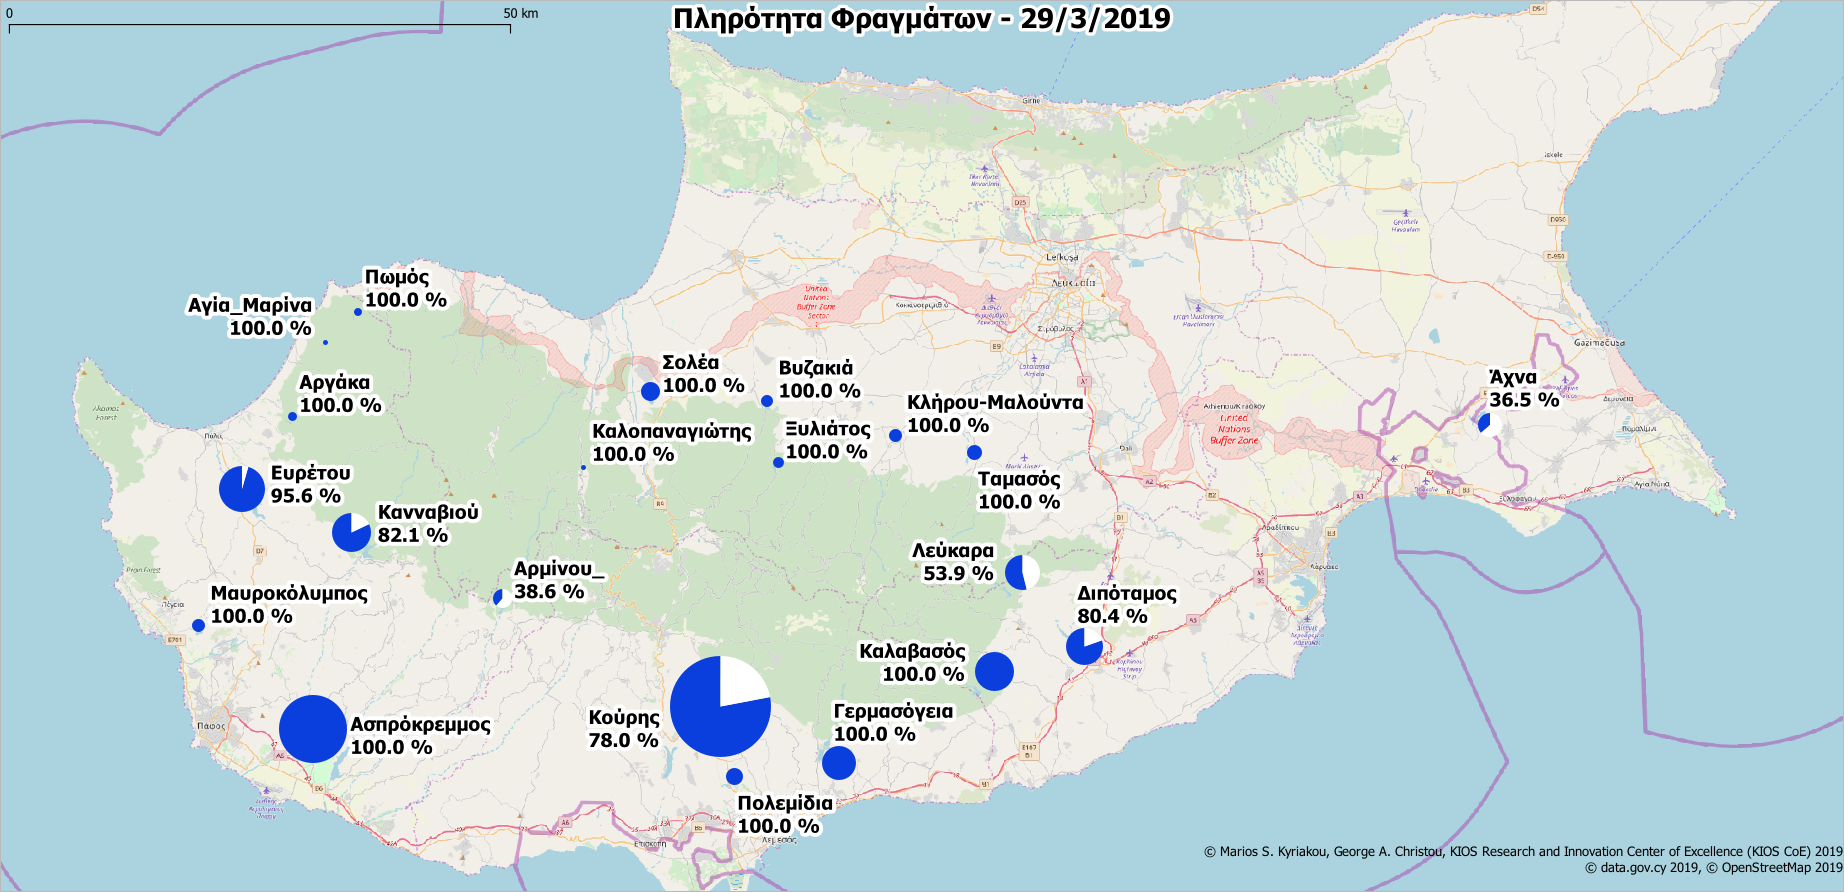
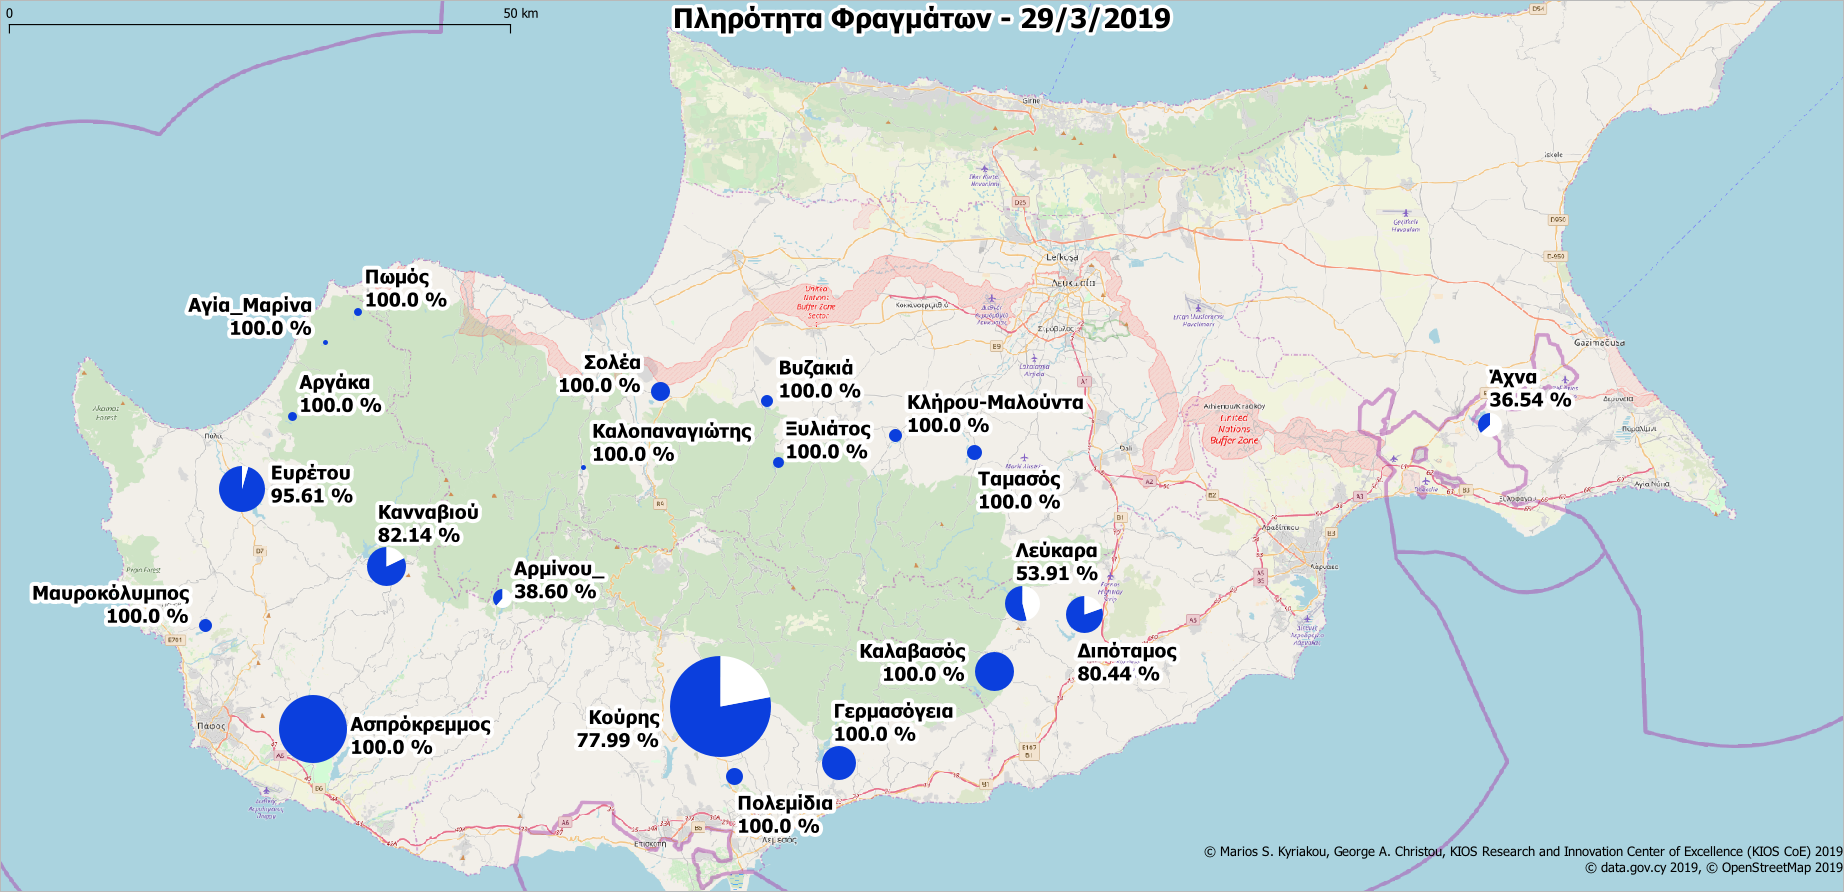
update

diff --git a/dams.html b/dams.html
@@ -15,7 +15,7 @@
 <th width="60"><b>Capacity (MCM)</b></th>
 <th width="60"><b>CurrentStorage (MCM)</b></th>
 <th width="60"><b>CurrentStorage (%)</b></th>
-</tr><tr><td>1</td><td>29/3/2019</td><td>Κούρης</td><td>115.0</td><td>89.684</td><td>78.00</td></tr><tr><tr><td>2</td><td>29/3/2019</td><td>Ασπρόκρεμμος</td><td>52.375</td><td>52.375</td><td>100.00</td></tr><tr><tr><td>3</td><td>29/3/2019</td><td>Ευρέτου</td><td>24.0</td><td>22.947</td><td>95.60</td></tr><tr><tr><td>4</td><td>29/3/2019</td><td>Κανναβιού</td><td>17.168</td><td>14.101</td><td>82.10</td></tr><tr><tr><td>5</td><td>29/3/2019</td><td>Καλαβασός</td><td>17.1</td><td>17.1</td><td>100.00</td></tr><tr><tr><td>6</td><td>29/3/2019</td><td>Διπόταμος</td><td>15.5</td><td>12.468</td><td>80.40</td></tr><tr><tr><td>7</td><td>29/3/2019</td><td>Λεύκαρα</td><td>13.85</td><td>7.466</td><td>53.90</td></tr><tr><tr><td>8</td><td>29/3/2019</td><td>Γερμασόγεια</td><td>13.5</td><td>13.5</td><td>100.00</td></tr><tr><tr><td>9</td><td>29/3/2019</td><td>Άχνα</td><td>6.8</td><td>2.485</td><td>36.50</td></tr><tr><tr><td>10</td><td>28/3/2019</td><td>Σολέα</td><td>4.454</td><td>4.454</td><td>100.00</td></tr><tr><tr><td>11</td><td>29/3/2019</td><td>Αρμίνου_</td><td>4.3</td><td>1.66</td><td>38.60</td></tr><tr><tr><td>12</td><td>29/3/2019</td><td>Πολεμίδια</td><td>3.4</td><td>3.4</td><td>100.00</td></tr><tr><tr><td>13</td><td>28/3/2019</td><td>Ταμασός</td><td>2.8</td><td>2.8</td><td>100.00</td></tr><tr><tr><td>14</td><td>29/3/2019</td><td>Μαυροκόλυμπος</td><td>2.18</td><td>2.18</td><td>100.00</td></tr><tr><tr><td>15</td><td>28/3/2019</td><td>Κλήρου-Μαλούντα</td><td>2.0</td><td>2.0</td><td>100.00</td></tr><tr><tr><td>16</td><td>29/3/2019</td><td>Βυζακιά</td><td>1.69</td><td>1.69</td><td>100.00</td></tr><tr><tr><td>17</td><td>29/3/2019</td><td>Ξυλιάτος</td><td>1.43</td><td>1.43</td><td>100.00</td></tr><tr><tr><td>18</td><td>29/3/2019</td><td>Αργάκα</td><td>0.99</td><td>0.99</td><td>100.00</td></tr><tr><tr><td>19</td><td>29/3/2019</td><td>Πωμός</td><td>0.86</td><td>0.86</td><td>100.00</td></tr><tr><tr><td>20</td><td>29/3/2019</td><td>Καλοπαναγιώτης</td><td>0.363</td><td>0.363</td><td>100.00</td></tr><tr><tr><td>21</td><td>29/3/2019</td><td>Αγία_Μαρίνα</td><td>0.298</td><td>0.298</td><td>100.00</td></tr><tr>
+</tr><tr><td>1</td><td>29/3/2019</td><td>Κούρης</td><td>115.0</td><td>89.684</td><td>77.99</td></tr><tr><tr><td>2</td><td>29/3/2019</td><td>Ασπρόκρεμμος</td><td>52.375</td><td>52.375</td><td>100.00</td></tr><tr><tr><td>3</td><td>29/3/2019</td><td>Ευρέτου</td><td>24.0</td><td>22.947</td><td>95.61</td></tr><tr><tr><td>4</td><td>29/3/2019</td><td>Κανναβιού</td><td>17.168</td><td>14.101</td><td>82.14</td></tr><tr><tr><td>5</td><td>29/3/2019</td><td>Καλαβασός</td><td>17.1</td><td>17.1</td><td>100.00</td></tr><tr><tr><td>6</td><td>29/3/2019</td><td>Διπόταμος</td><td>15.5</td><td>12.468</td><td>80.44</td></tr><tr><tr><td>7</td><td>29/3/2019</td><td>Λεύκαρα</td><td>13.85</td><td>7.466</td><td>53.91</td></tr><tr><tr><td>8</td><td>29/3/2019</td><td>Γερμασόγεια</td><td>13.5</td><td>13.5</td><td>100.00</td></tr><tr><tr><td>9</td><td>29/3/2019</td><td>Άχνα</td><td>6.8</td><td>2.485</td><td>36.54</td></tr><tr><tr><td>10</td><td>28/3/2019</td><td>Σολέα</td><td>4.454</td><td>4.454</td><td>100.00</td></tr><tr><tr><td>11</td><td>29/3/2019</td><td>Αρμίνου_</td><td>4.3</td><td>1.66</td><td>38.60</td></tr><tr><tr><td>12</td><td>29/3/2019</td><td>Πολεμίδια</td><td>3.4</td><td>3.4</td><td>100.00</td></tr><tr><tr><td>13</td><td>28/3/2019</td><td>Ταμασός</td><td>2.8</td><td>2.8</td><td>100.00</td></tr><tr><tr><td>14</td><td>29/3/2019</td><td>Μαυροκόλυμπος</td><td>2.18</td><td>2.18</td><td>100.00</td></tr><tr><tr><td>15</td><td>28/3/2019</td><td>Κλήρου-Μαλούντα</td><td>2.0</td><td>2.0</td><td>100.00</td></tr><tr><tr><td>16</td><td>29/3/2019</td><td>Βυζακιά</td><td>1.69</td><td>1.69</td><td>100.00</td></tr><tr><tr><td>17</td><td>29/3/2019</td><td>Ξυλιάτος</td><td>1.43</td><td>1.43</td><td>100.00</td></tr><tr><tr><td>18</td><td>29/3/2019</td><td>Αργάκα</td><td>0.99</td><td>0.99</td><td>100.00</td></tr><tr><tr><td>19</td><td>29/3/2019</td><td>Πωμός</td><td>0.86</td><td>0.86</td><td>100.00</td></tr><tr><tr><td>20</td><td>29/3/2019</td><td>Καλοπαναγιώτης</td><td>0.363</td><td>0.363</td><td>100.00</td></tr><tr><tr><td>21</td><td>29/3/2019</td><td>Αγία_Μαρίνα</td><td>0.298</td><td>0.298</td><td>100.00</td></tr><tr>
 </tr>
 <tr>
 <td></td>
